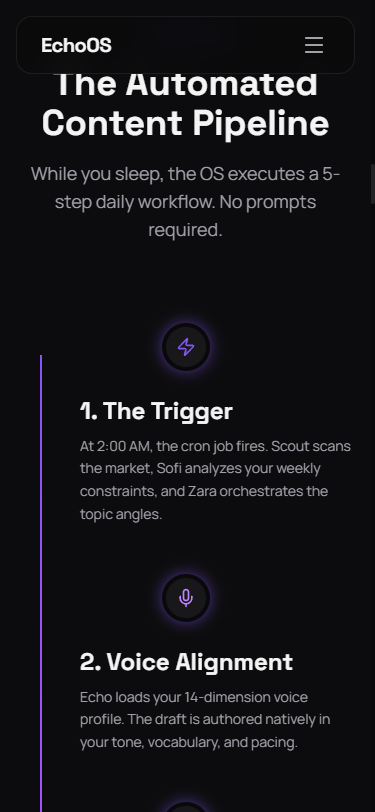
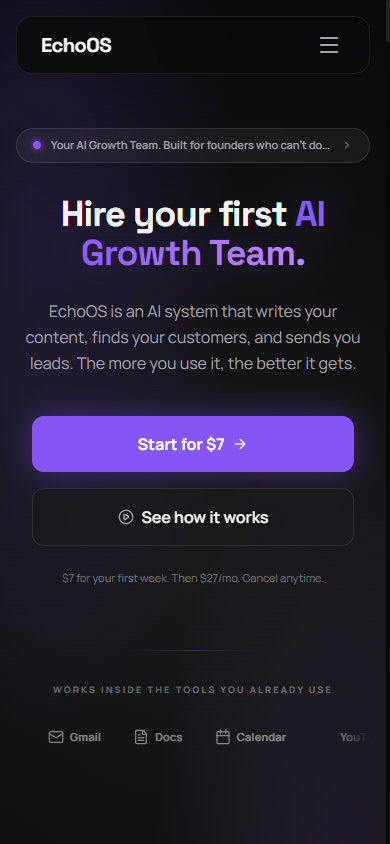
Coming soon: swap CTAs to waitlist copy, keep pricing visible

diff --git a/index.html b/index.html
@@ -390,7 +390,7 @@
       <div class="hidden md:flex items-center gap-4">
         <a href="#pricing"
           class="bg-primary text-white px-5 py-2 rounded-glass font-medium hover:bg-primary-hover transition-colors duration-200 cursor-pointer text-sm">
-          Start for $7
+          Reserve Your Spot
         </a>
       </div>
 
@@ -405,10 +405,10 @@
         <a href="#agents" class="text-text-muted hover:text-text-main text-sm font-medium transition-colors duration-200 py-2 border-b border-white/5">The Team</a>
         <a href="#pricing" class="text-text-muted hover:text-text-main text-sm font-medium transition-colors duration-200 py-2 border-b border-white/5">Pricing</a>
         <a href="#faq" class="text-text-muted hover:text-text-main text-sm font-medium transition-colors duration-200 py-2 border-b border-white/5">FAQ</a>
-        <a href="#pricing"
-          class="bg-primary text-white px-5 py-2.5 rounded-glass font-medium hover:bg-primary-hover transition-colors duration-200 text-sm text-center mt-2">
-          Start for $7
-        </a>
+         <a href="#pricing"
+           class="bg-primary text-white px-5 py-2.5 rounded-glass font-medium hover:bg-primary-hover transition-colors duration-200 text-sm text-center mt-2">
+           Reserve Your Spot
+         </a>
       </div>
     </div>
   </nav>
@@ -447,7 +447,7 @@
       <div class="flex flex-col sm:flex-row items-center w-full sm:w-auto gap-4 justify-center mb-6 z-20 px-4 sm:px-0">
         <a href="#pricing"
           class="btn-magnetic w-full sm:w-auto text-center bg-primary text-white px-8 py-4 rounded-xl font-bold text-base hover:bg-primary-hover shadow-[0_0_30px_rgba(134,85,246,0.4)] transition-all duration-300 cursor-pointer flex items-center justify-center gap-2 group">
-          Start for $7
+          Reserve Your Spot
           <i data-lucide="arrow-right" class="w-4 h-4 sm:group-hover:translate-x-1 transition-transform"></i>
         </a>
         <a href="#how-it-works"
@@ -457,7 +457,7 @@
         </a>
       </div>
 
-      <p class="text-[11px] sm:text-xs text-text-muted/60 mb-16 md:mb-20">$7 for your first week. Then $27/mo. Cancel anytime.</p>
+      <p class="text-[11px] sm:text-xs text-text-muted/60 mb-16 md:mb-20">Launching soon. Reserve your spot for founding member pricing.</p>
 
       <!-- Integrations Logo Cloud -->
       <div class="w-full flex flex-col items-center animate-on-scroll" style="transition-delay: 0.1s;">
@@ -1145,11 +1145,11 @@ Zara + Echo + Sofi (limited). Scout runs market scans. Aria finds the patterns. 
           <div class="flex flex-col gap-3 mt-auto pt-6 border-t border-white/5 relative z-20">
             <a id="echoos-cta-monthly" href="https://whop.com/checkout/plan_k1tIseLfEYsAK" target="_blank" rel="noopener"
               class="btn-magnetic bg-primary text-white px-6 py-4 w-full rounded-xl font-bold cursor-pointer hover:bg-primary-hover shadow-[0_0_20px_rgba(134,85,246,0.4)] transition-all duration-300 text-center text-sm block tracking-wide">
-              Start for $7
+              Reserve Your Spot
             </a>
             <a id="echoos-cta-annual" href="https://whop.com/checkout/plan_CkQWyzyxh8ehO" target="_blank" rel="noopener"
               class="btn-magnetic bg-primary text-white px-6 py-4 w-full rounded-xl font-bold cursor-pointer hover:bg-primary-hover shadow-[0_0_20px_rgba(134,85,246,0.4)] transition-all duration-300 text-center text-sm block hidden tracking-wide">
-              Lock In Rate &mdash; $270/yr
+              Reserve Your Spot
             </a>
             <p class="text-[11px] text-center text-text-muted mt-2"><i data-lucide="shield-check" class="w-3 h-3 inline pb-0.5 text-primary"></i> Full access for 7 days. Cancel before it bills.</p>
           </div>
@@ -1195,18 +1195,18 @@ Zara + Echo + Sofi (limited). Scout runs market scans. Aria finds the patterns. 
           <div class="flex flex-col gap-2 mt-auto pt-6 border-t border-white/5">
             <a id="biz-cta-monthly" href="https://whop.com/checkout/plan_oPOjDR6s99LHG" target="_blank" rel="noopener"
               class="btn-magnetic bg-white/5 text-white border border-white/10 px-6 py-3 w-full rounded-glass font-semibold hover:bg-white/10 transition-colors duration-200 text-center text-sm block">
-              Get the Full Team
+              Reserve Your Spot
             </a>
             <a id="biz-cta-annual" href="https://whop.com/checkout/plan_TKQvdlcUv5fBv" target="_blank" rel="noopener"
               class="btn-magnetic bg-white/5 text-white border border-white/10 px-6 py-3 w-full rounded-glass font-semibold hover:bg-white/10 transition-colors duration-200 text-center text-sm block hidden">
-              Get BusinessOS &mdash; $970/yr
+              Reserve Your Spot
             </a>
           </div>
         </div>
 
       </div>
 
-      <p class="text-center text-text-muted text-sm mt-8">The $7 week is full access at your tier. If it doesn't feel right, cancel before it bills. No questions.</p>
+      <p class="text-center text-text-muted text-sm mt-8">Founding members lock in the lowest price forever. Join the waitlist to get notified at launch.</p>
 
     </div>
   </section>
@@ -1532,15 +1532,15 @@ Zara + Echo + Sofi (limited). Scout runs market scans. Aria finds the patterns. 
       <h2 class="font-heading text-5xl font-bold text-text-main mb-4">Your team is already built.</h2>
       <p class="text-text-muted text-lg mb-10 max-w-lg mx-auto leading-relaxed">They just ran their first night without you. The drafts are in your folder. And the system's already smarter than it was yesterday.</p>
 
-      <div class="flex flex-wrap gap-4 justify-center">
-        <a href="#pricing"
-          class="bg-primary text-white px-10 py-4 rounded-glass font-semibold text-lg hover:bg-primary-hover transition-colors duration-200 cursor-pointer">
-          Start for $7
-        </a>
-      </div>
+       <div class="flex flex-wrap gap-4 justify-center">
+         <a href="#pricing"
+           class="bg-primary text-white px-10 py-4 rounded-glass font-semibold text-lg hover:bg-primary-hover transition-colors duration-200 cursor-pointer">
+           Reserve Your Spot
+         </a>
+       </div>
 
-      <p class="text-sm text-text-muted mt-5">$7 first week. $27/mo after. Cancel before it bills.</p>
-      <p class="text-xs text-text-muted mt-3">No questions if you cancel.</p>
+       <p class="text-sm text-text-muted mt-5">Launching soon. Founding members get first access.</p>
+       <p class="text-xs text-text-muted mt-3">No spam. Just a heads up when we're live.</p>
     </div>
   </section>
 
